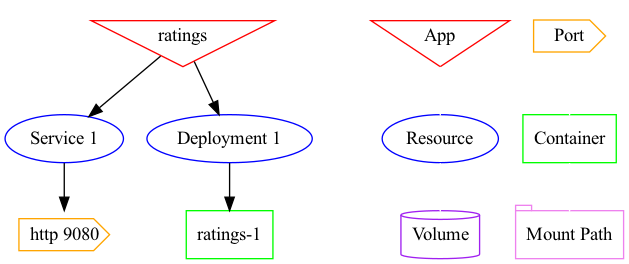
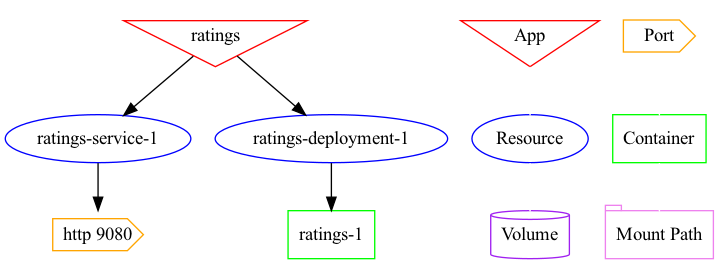
minor tweaks

diff --git a/vubernetes.py b/vubernetes.py
@@ -67,7 +67,7 @@ class Vubernetes():
                 # Keep a unique count so that nodes don't double up
                 resourceCount[resource.kind] += 1
                 # Add edge between appNode and resourceNode
-                resourceNodeName = f"{resource.kind} {resourceCount[resource.kind]}"
+                resourceNodeName = f"{app.name}-{resource.kind.lower()}-{resourceCount[resource.kind]}"
                 G.add_nodes_from([(resourceNodeName, {'color':'blue'})])
                 G.add_edge(app.name, resourceNodeName)
                 if resource.kind == "Service":
